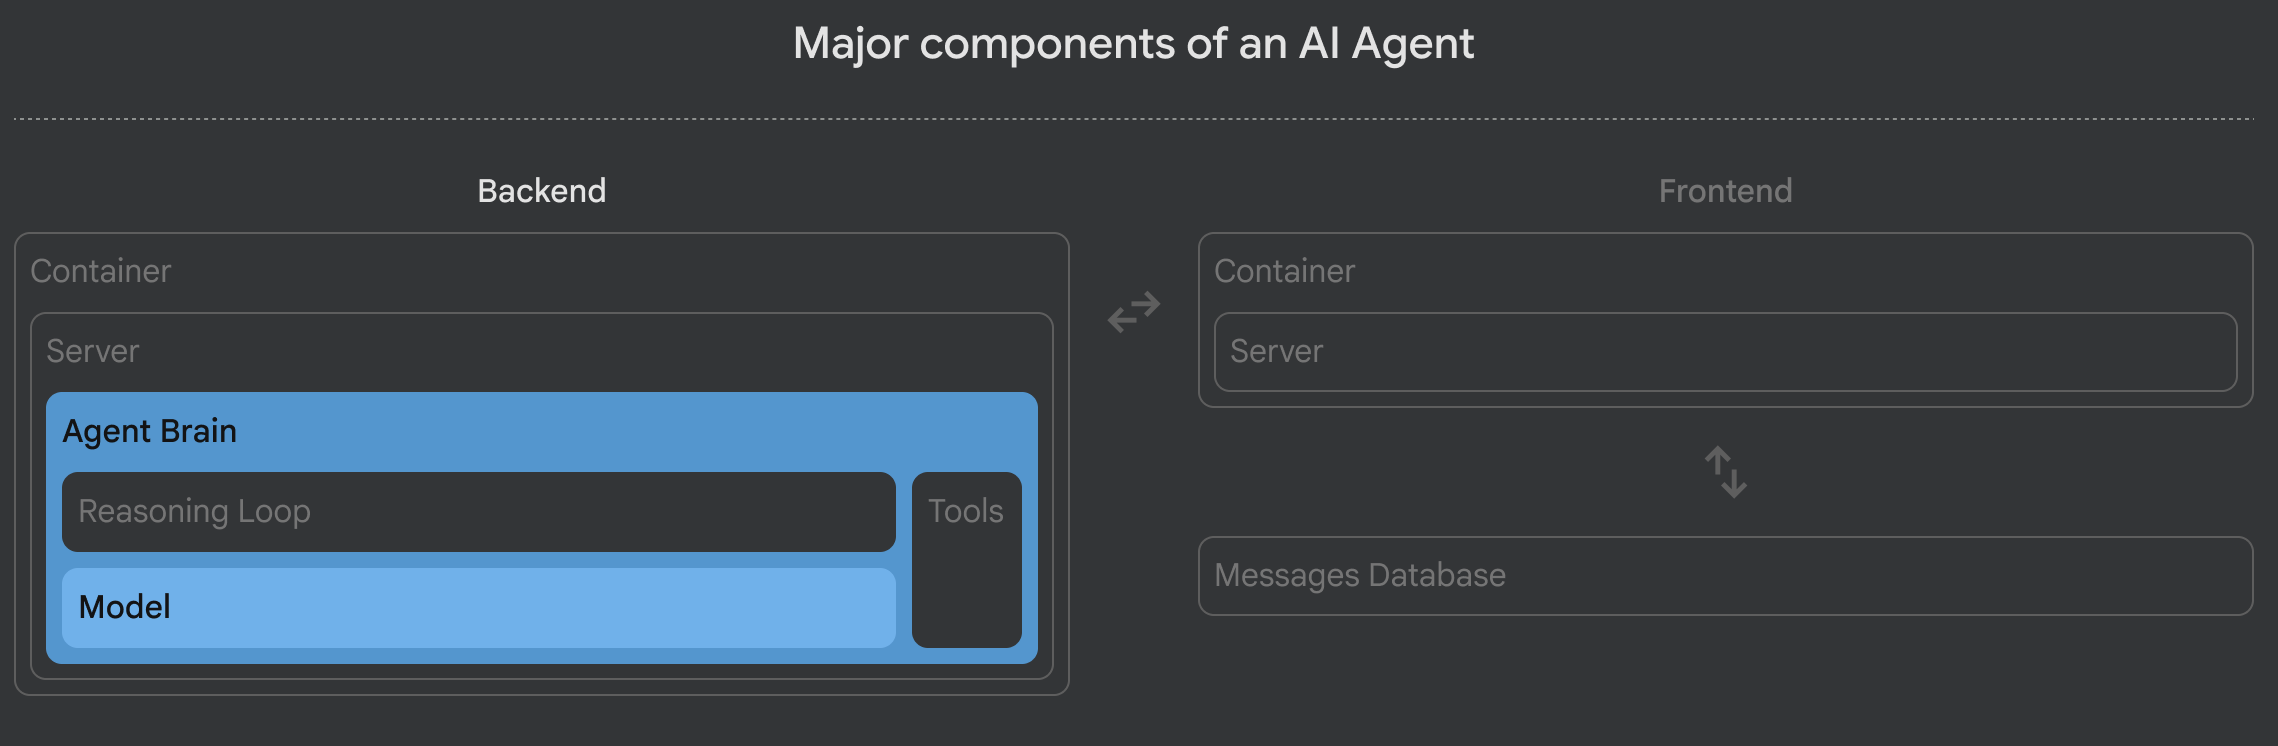
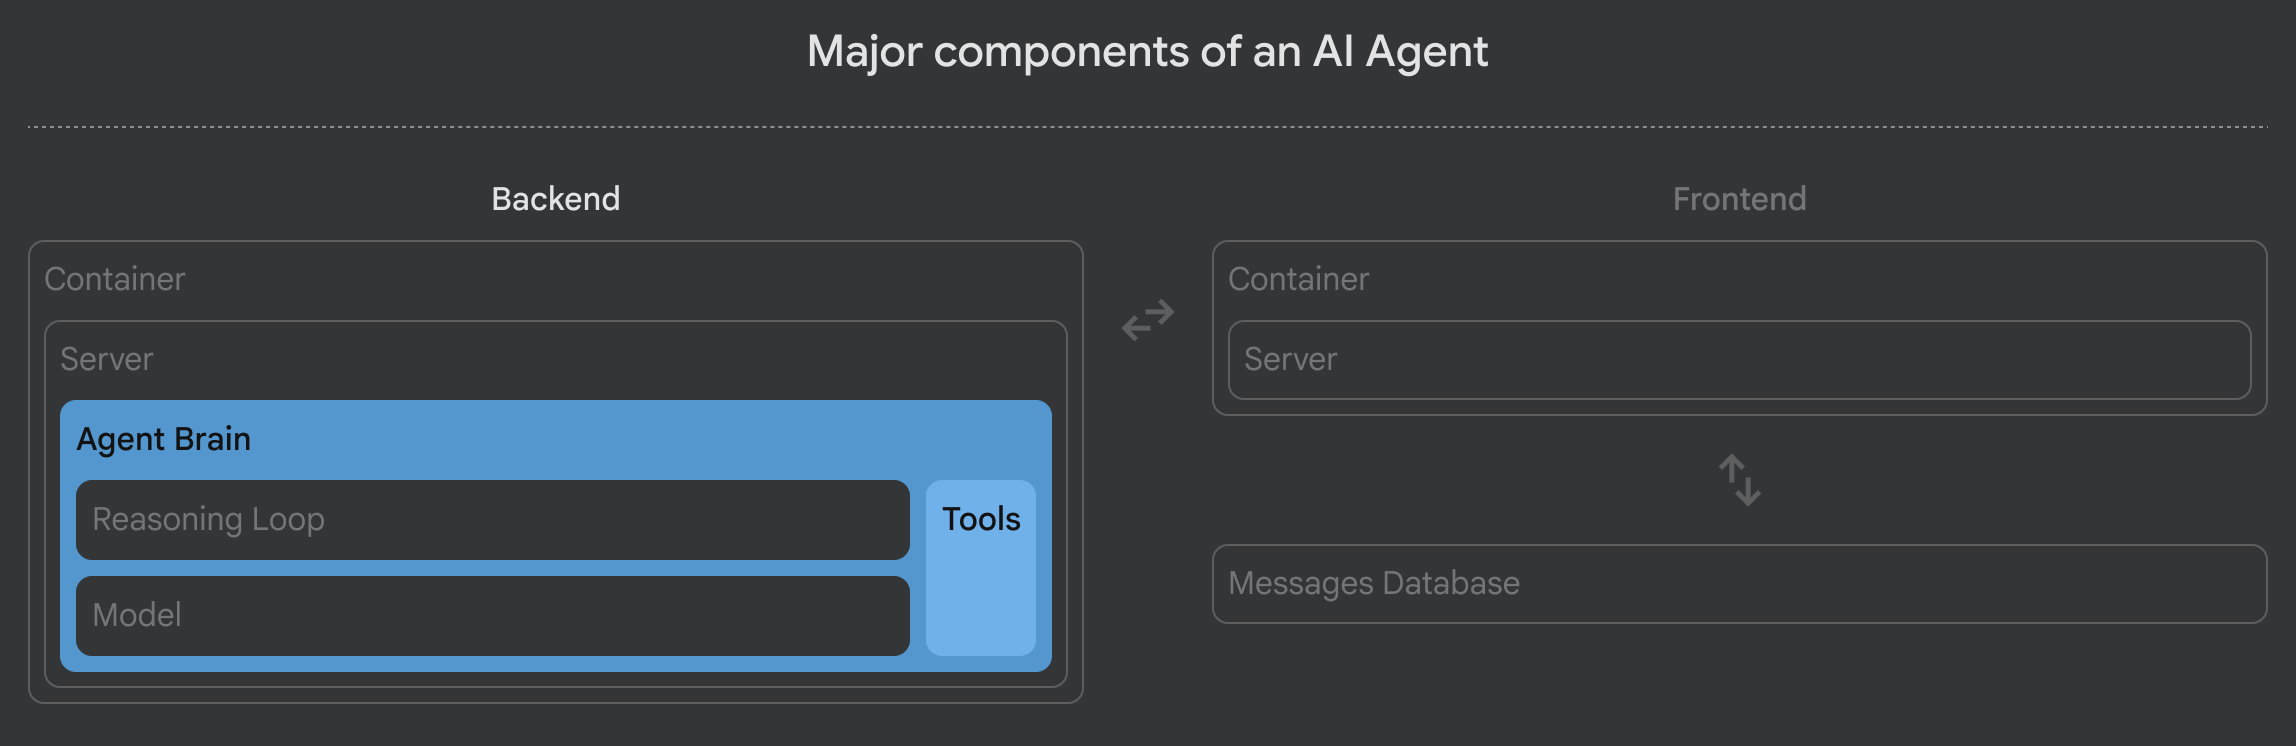
Changes for the bugs !!!

diff --git a/src/app/components/agent-bot/agent-bot.component.ts b/src/app/components/agent-bot/agent-bot.component.ts
@@ -304,7 +304,7 @@ export class AgentBotComponent implements OnInit, OnDestroy {
             const lastMessage = lastEventParsed.agent.messages.at(-1);
 
             if (lastMessage && lastMessage.kwargs.type === "ai") {
-                this.conversation[0].botAnswer += lastMessage.kwargs.content;
+                this.conversation[0].botAnswer += this.removeUnpairedTripleBackticks(lastMessage.kwargs.content);
             }
             return;
         }
@@ -414,7 +414,7 @@ export class AgentBotComponent implements OnInit, OnDestroy {
 
   openHelpModal() {
     // this.dialog.open(HowItWorksDialogComponent,{ width: '100%',maxWidth:'1000px', data: { content: './assets/images/deployed_agent_diagram.png' }, });
-    this.dialog.open(HowItWorksDialogComponent,{ width: '100%',maxWidth:'1000px', data: { url: './assets/images/deployed_agent_diagram.png', content: "You can now interact with your deployed AI Agent! On your screen is a description of your selected technologies for your deployed agent, as well as a list of sample prompts to ask. Embedded within this UI is the frontend chatbot code that is interacting with your backend AI agent service." }, });
+    this.dialog.open(HowItWorksDialogComponent,{ width: '100%',maxWidth:'1200px', data: { url: './assets/images/agent_properties_diagram.png', content: "You can now interact with your deployed AI Agent! On your screen is a description of your selected technologies for your deployed agent, as well as a list of sample prompts to ask. Embedded within this UI is the frontend chatbot code that is interacting with your backend AI agent service." }, });
   }
 
   goToHome() {
@@ -482,6 +482,18 @@ export class AgentBotComponent implements OnInit, OnDestroy {
     console.log(key);
     console.log(this.botsMap);
     this.botUrl = bot_config.CLOUD_RUN_URL + "/streamQuery";
+  }
+
+  removeUnpairedTripleBackticks(text: string): string {
+    const matches: RegExpMatchArray[] = Array.from(text.matchAll(/```/g));
+    // If there are an odd number of triple backtick occurrences, remove the last one
+    if (matches.length % 2 !== 0) {
+      if (matches.length > 0) { // Check if there are any matches before trying to remove
+        const start_index: number = matches[matches.length - 1].index!; // Non-null assertion because we know it exists
+        text = text.substring(0, start_index) + text.substring(start_index + 3);
+      }
+    }
+    return text;
   }
 
 }

diff --git a/src/app/components/configure-bot/configure-bot.component.ts b/src/app/components/configure-bot/configure-bot.component.ts
@@ -123,7 +123,7 @@ export class ConfigureBotComponent implements OnInit, AfterViewInit {
         { label: 'Agent Name', type: 'input', controlName: 'agentName', placeholder: '', required: true },
         { label: 'Description', type: 'text', controlName: 'description', placeholder: '', required: true },
       ],
-      caption:'Welcome to the Agent Bar! To begin, please provide a unique name for your agent, something that reflects its purpose or personality. Next, craft a concise description outlining the agent\'s intended function and how it will assist users. Finally, select the industry that best aligns with your agent\'s focus. This selection will help tailor the agent\'s capabilities and access relevant data, ensuring it\'s optimally configured for its intended environment.',
+      caption:'Welcome to the Agent Bar! To begin, please provide a unique name for your agent, something that reflects its purpose or personality. Then, craft a concise description outlining the agent\'s intended function and how it will assist users. This selection will help tailor the agent\'s capabilities and access relevant data, ensuring it\'s optimally configured for its intended environment.',
       howItWorks: '',
       hasNext: true,
       hasPrevious: false,

diff --git a/src/app/components/export/export.component.html b/src/app/components/export/export.component.html
@@ -6,13 +6,13 @@
         <div class="sub-container">
             <div class="child-container">
                 <p>
-                    You've just birthed a brand new AI Agent into the world!  High fives all around! Ready to unleash its potential? Scan the QR code to grab your code and take it for a spin. Feeling ambitious? Our expert squad is nearby, itching to show you how to launch this agent into orbit! Let's turn that code into a production-ready powerhouse!
+                    You've just activated a brand new AI Agent into the world!  High fives all around! Ready to unleash its potential? Scan the QR code to grab your code and take it for a spin. Feeling ambitious? Our expert squad is nearby, itching to show you how to launch this agent into orbit! Let's turn that code into a production-ready powerhouse!
                 </p>
                 <p>
                     If you’re participating in the Skills Challenge, use this code:
                 </p>
                 <p class="code-container">
-                    000-000-000
+                    AIAgent
                 </p>
             </div>
             <!-- <div class="child-container">

diff --git a/src/app/components/home/home.component.html b/src/app/components/home/home.component.html
@@ -9,8 +9,7 @@
             <div>
                 <p class="text-container">
                     The AI Agent Bar simplifies the process of creating and experimenting with AI agents. Users can easily
-                    select their preferred runtime, orchestration framework, tools, and model, or choose from pre-configured
-                    agents. This tool makes it easy for both experienced developers and those new to AI to explore and implement
+                    select their preferred runtime, orchestration framework, industry, and model. This tool makes it easy for both experienced developers and those new to AI to explore and implement
                     AI agent solutions.
                 </p>
             </div>
